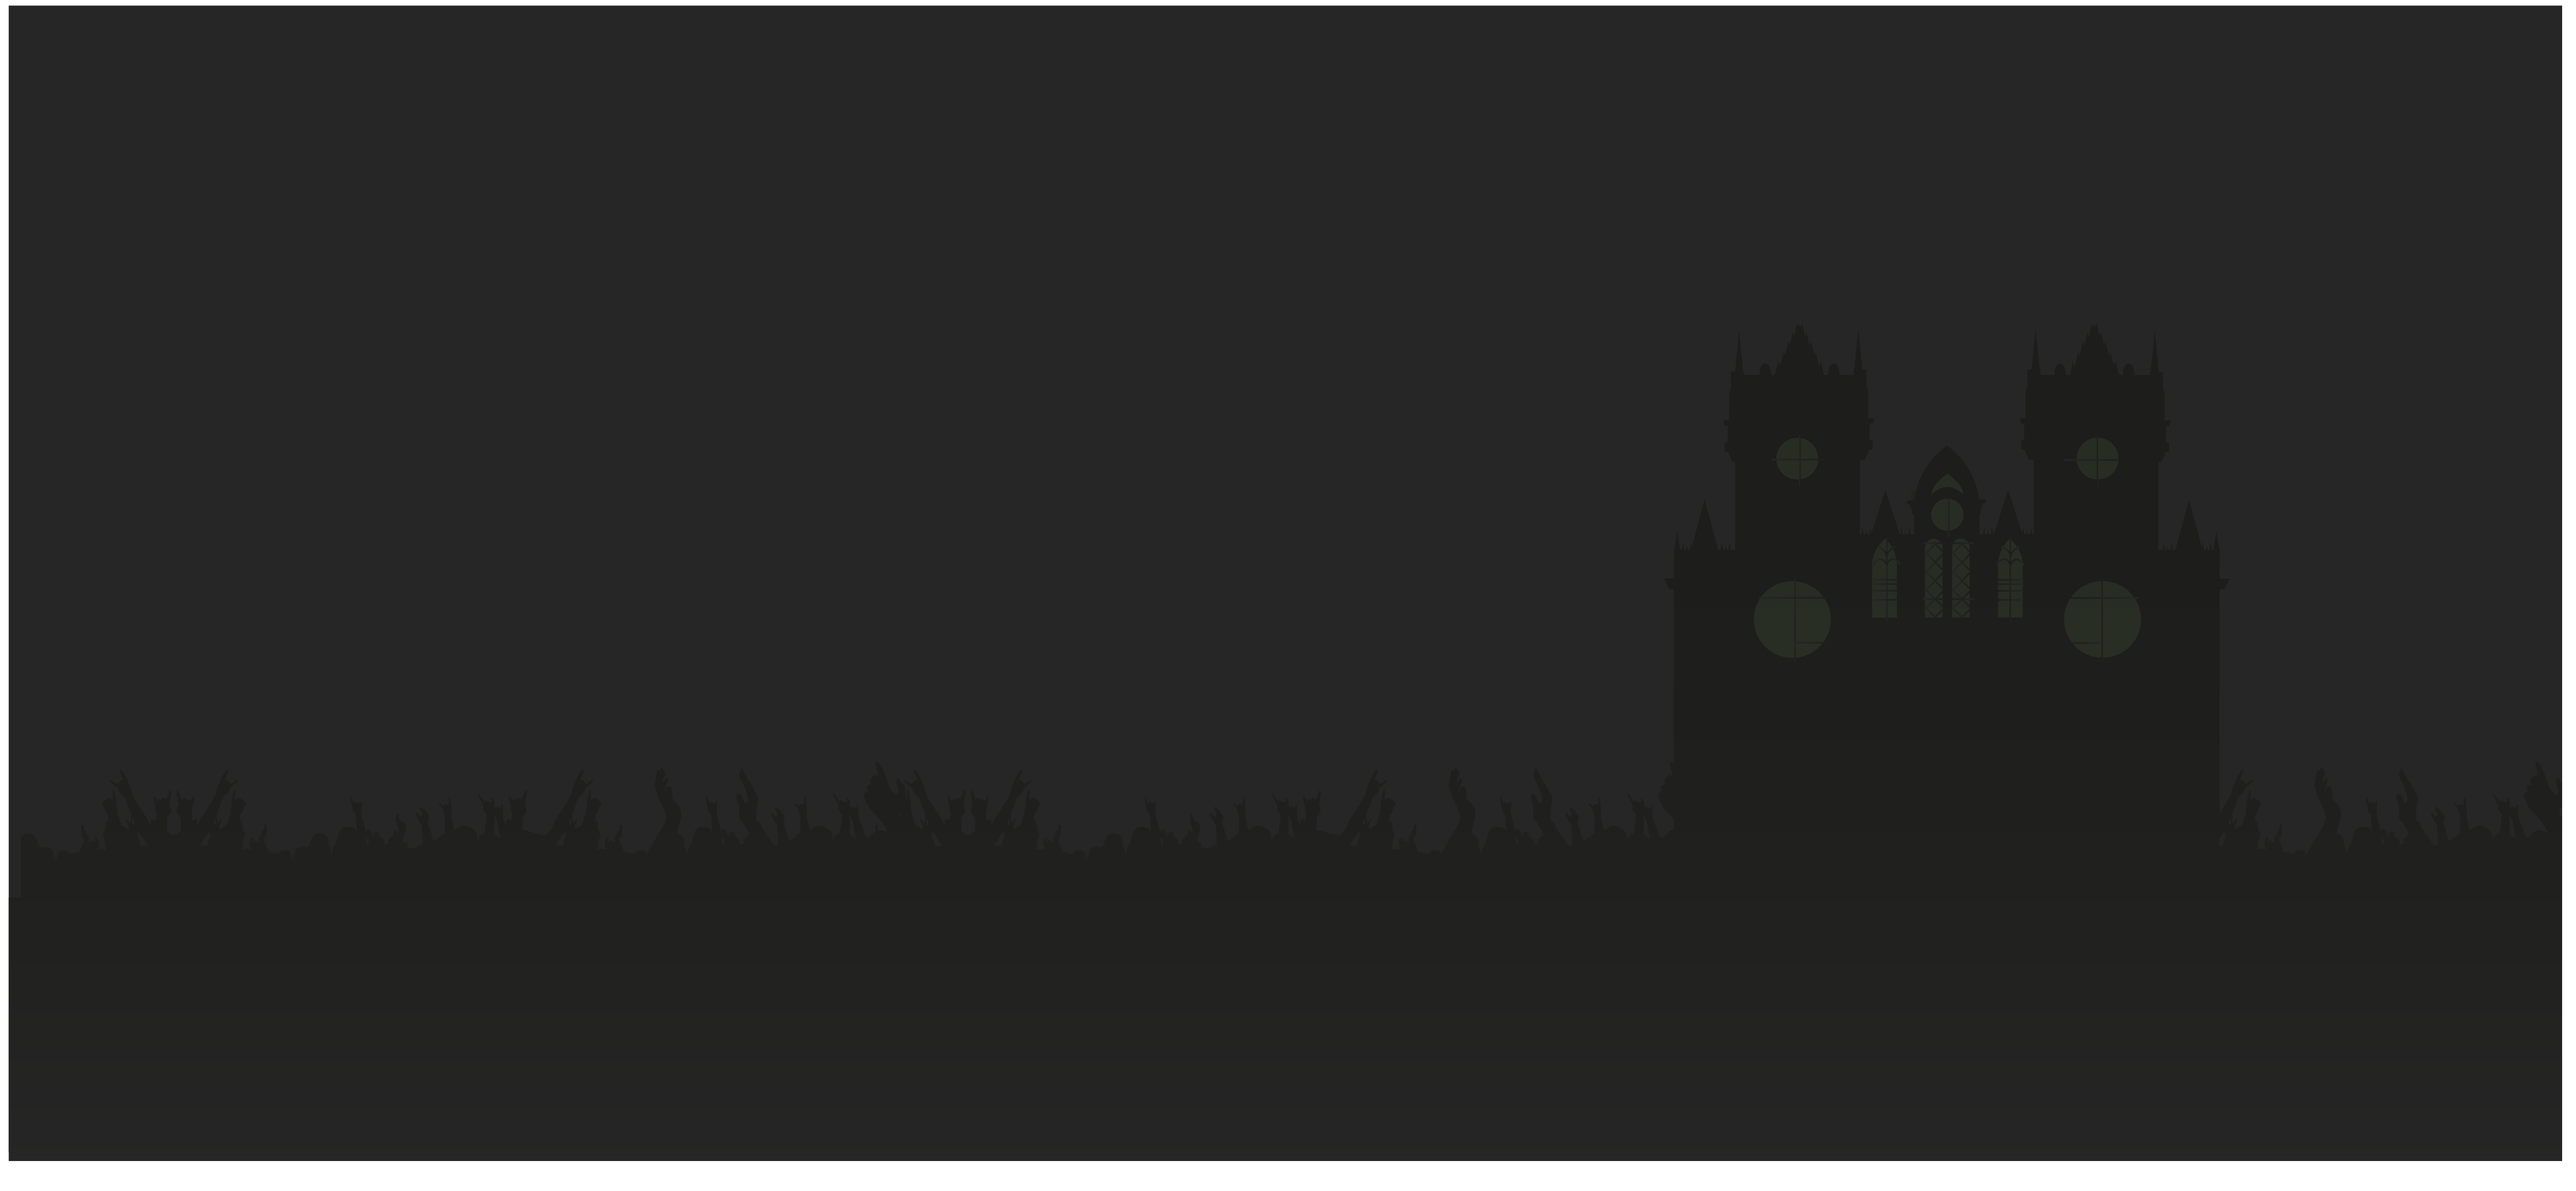
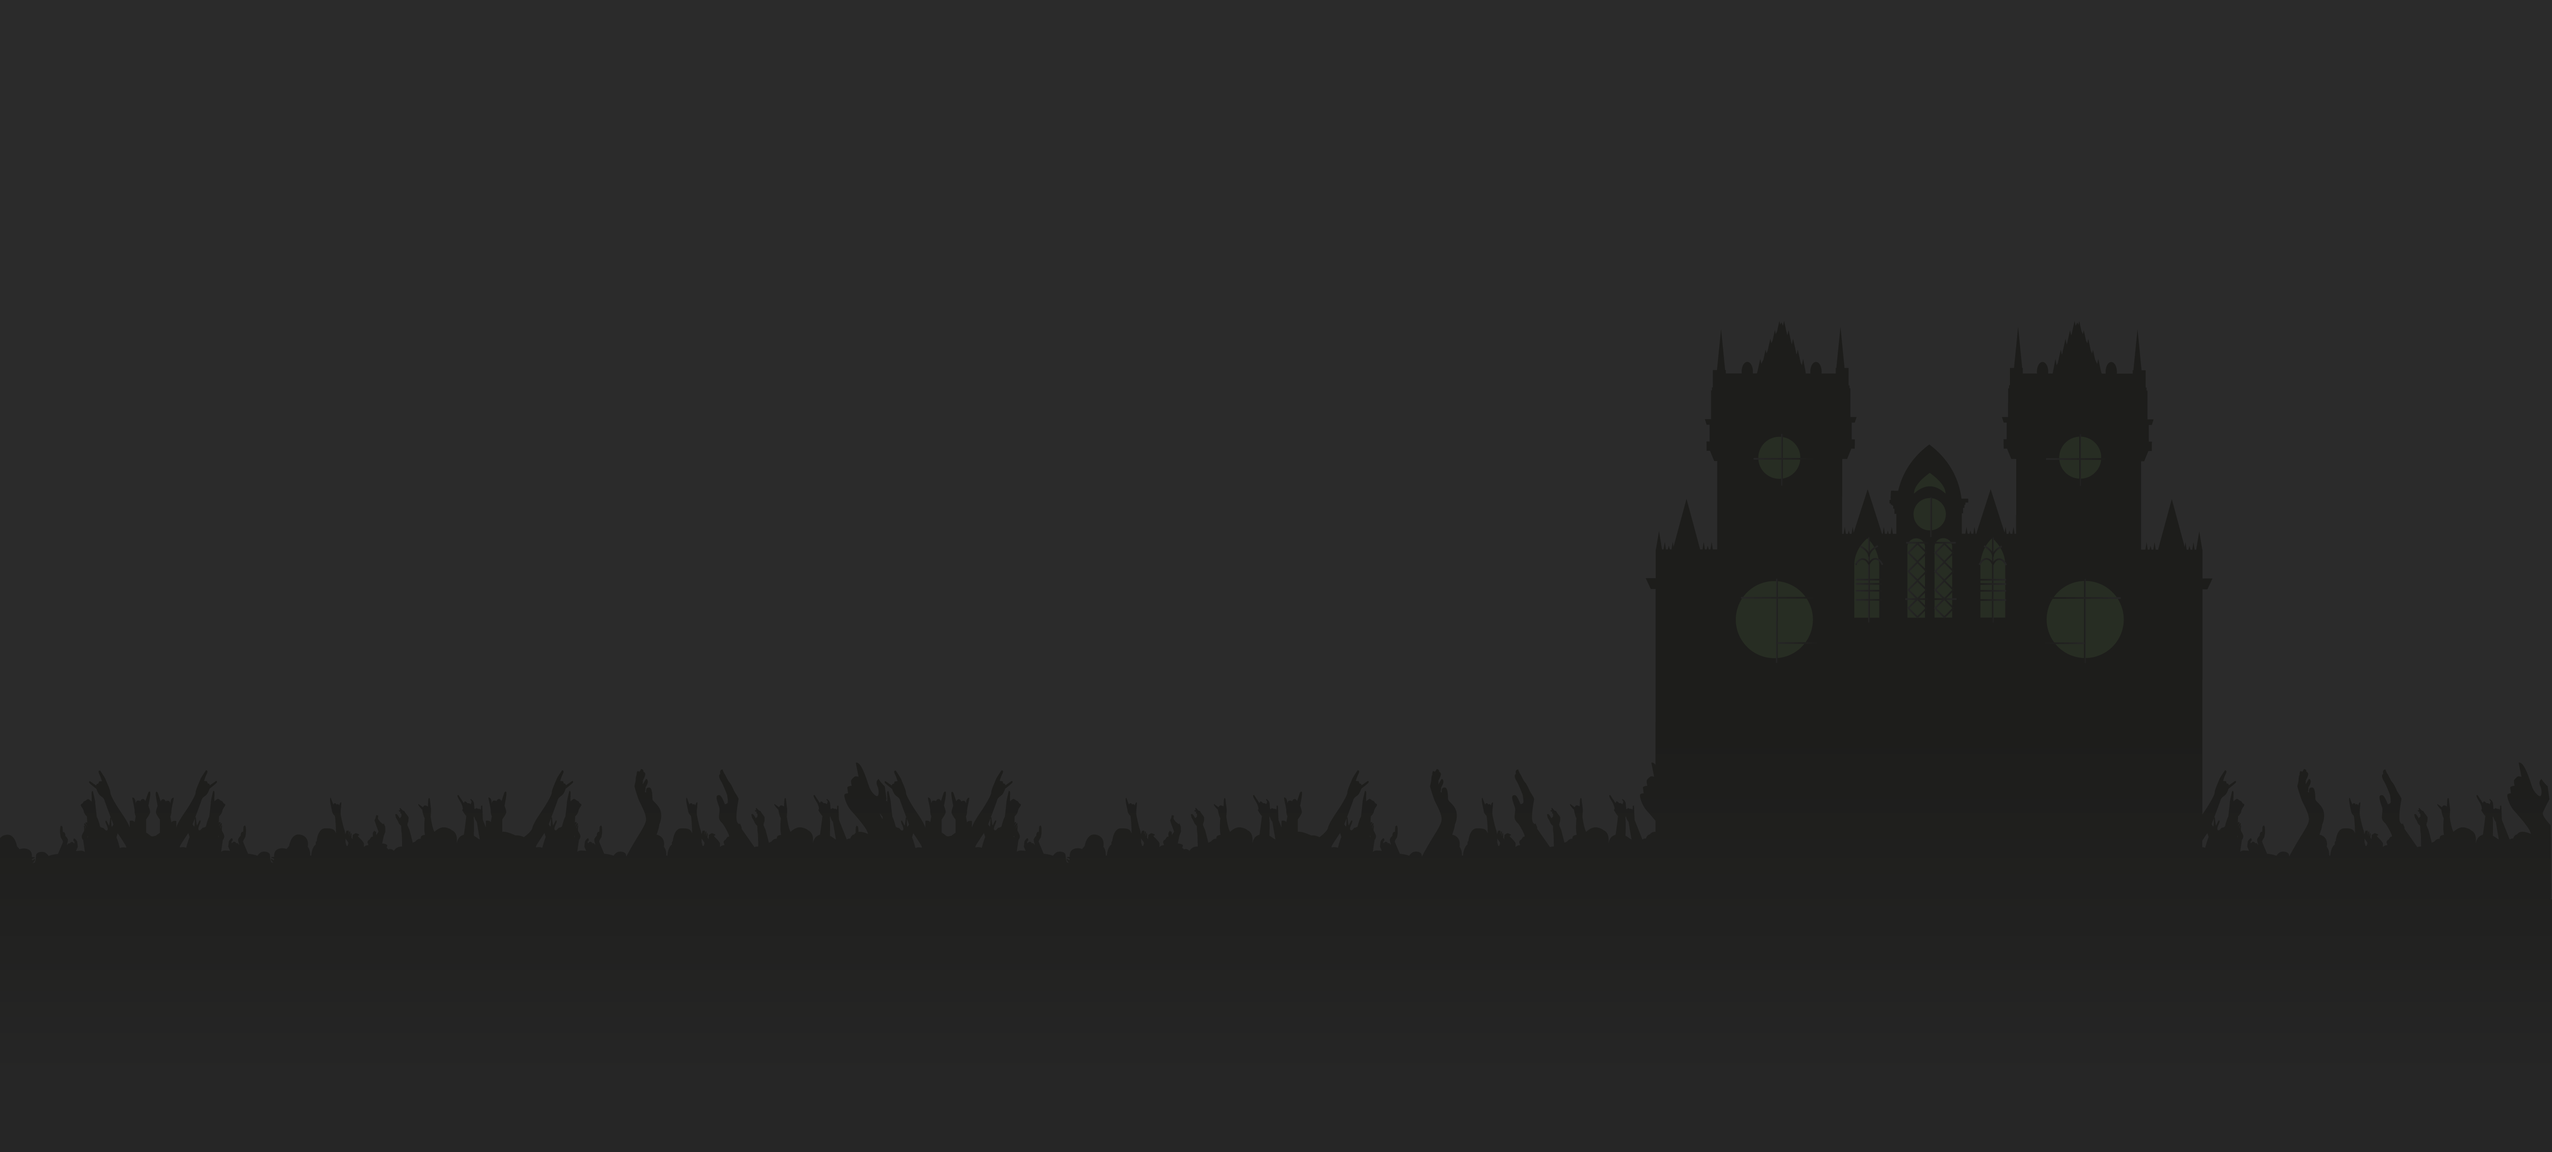
changement background

Changed region(s): [[0.0, 0.0, 1.0, 1.0]]

diff --git a/ouest-france/public/css/style.css b/ouest-france/public/css/style.css
@@ -21,7 +21,7 @@ header img{
 }
 
 #section0{
-    background: #262626;
+    background: #2B2B2B;
     width:100%;
     height: 100%;
 }
@@ -30,26 +30,26 @@ header img{
 #section1{
     background: url(../img/Data1Background.png) no-repeat;
     background-size: 100% 100%;
-    background-color: #262626;
+    background-color: #2B2B2B;
 
 }
 
 #section2{
     background: url(../img/Data2Background.png) no-repeat;
     background-size: 100% 100%;
-    background-color: #262626;
+    background-color: #2B2B2B;
 }
 
 
 #section3{
     background: url(../img/Data3Background.png) no-repeat;
     background-size: 100% 100%;
-    background-color: #262626;
+    background-color: #2B2B2B;
 }
 
 
 #section4{
-    background: #262626;
+    background: #2B2B2B;
     width:100%;
     height: 100%;
 }
